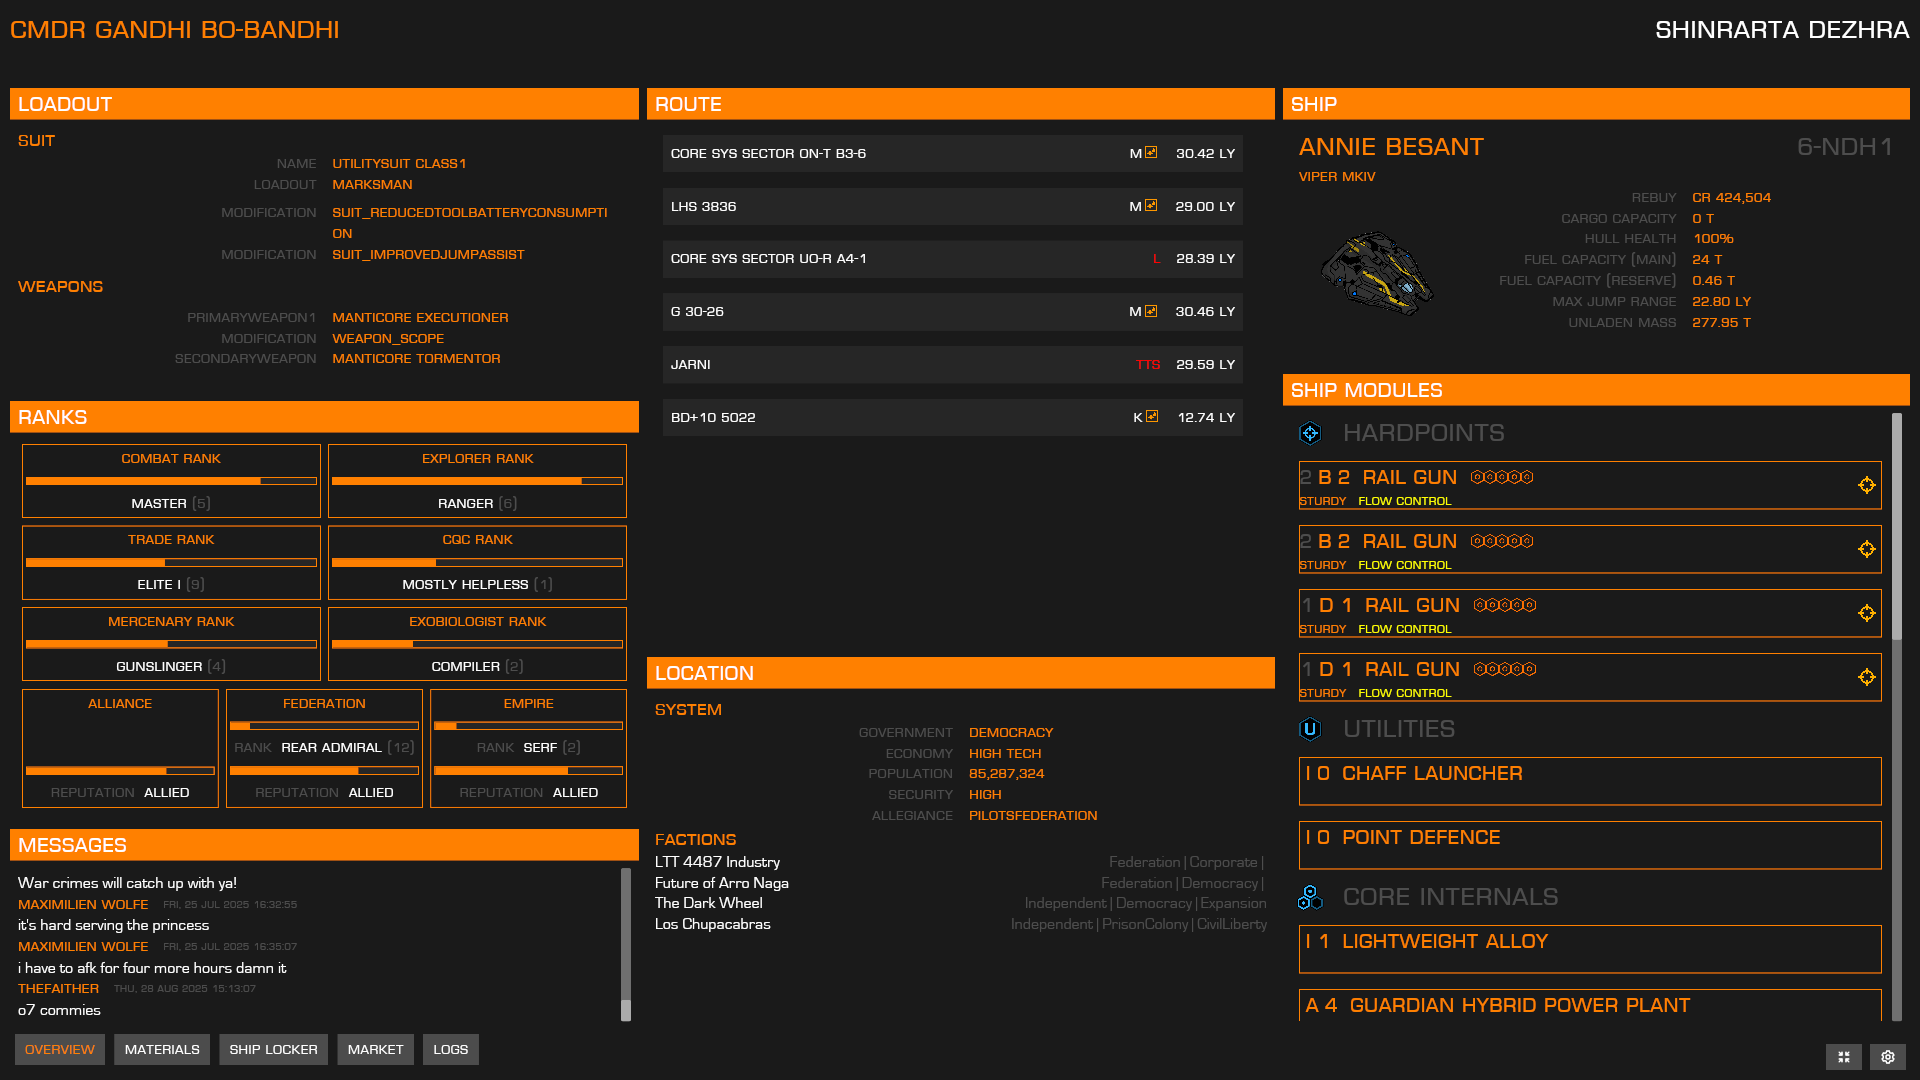
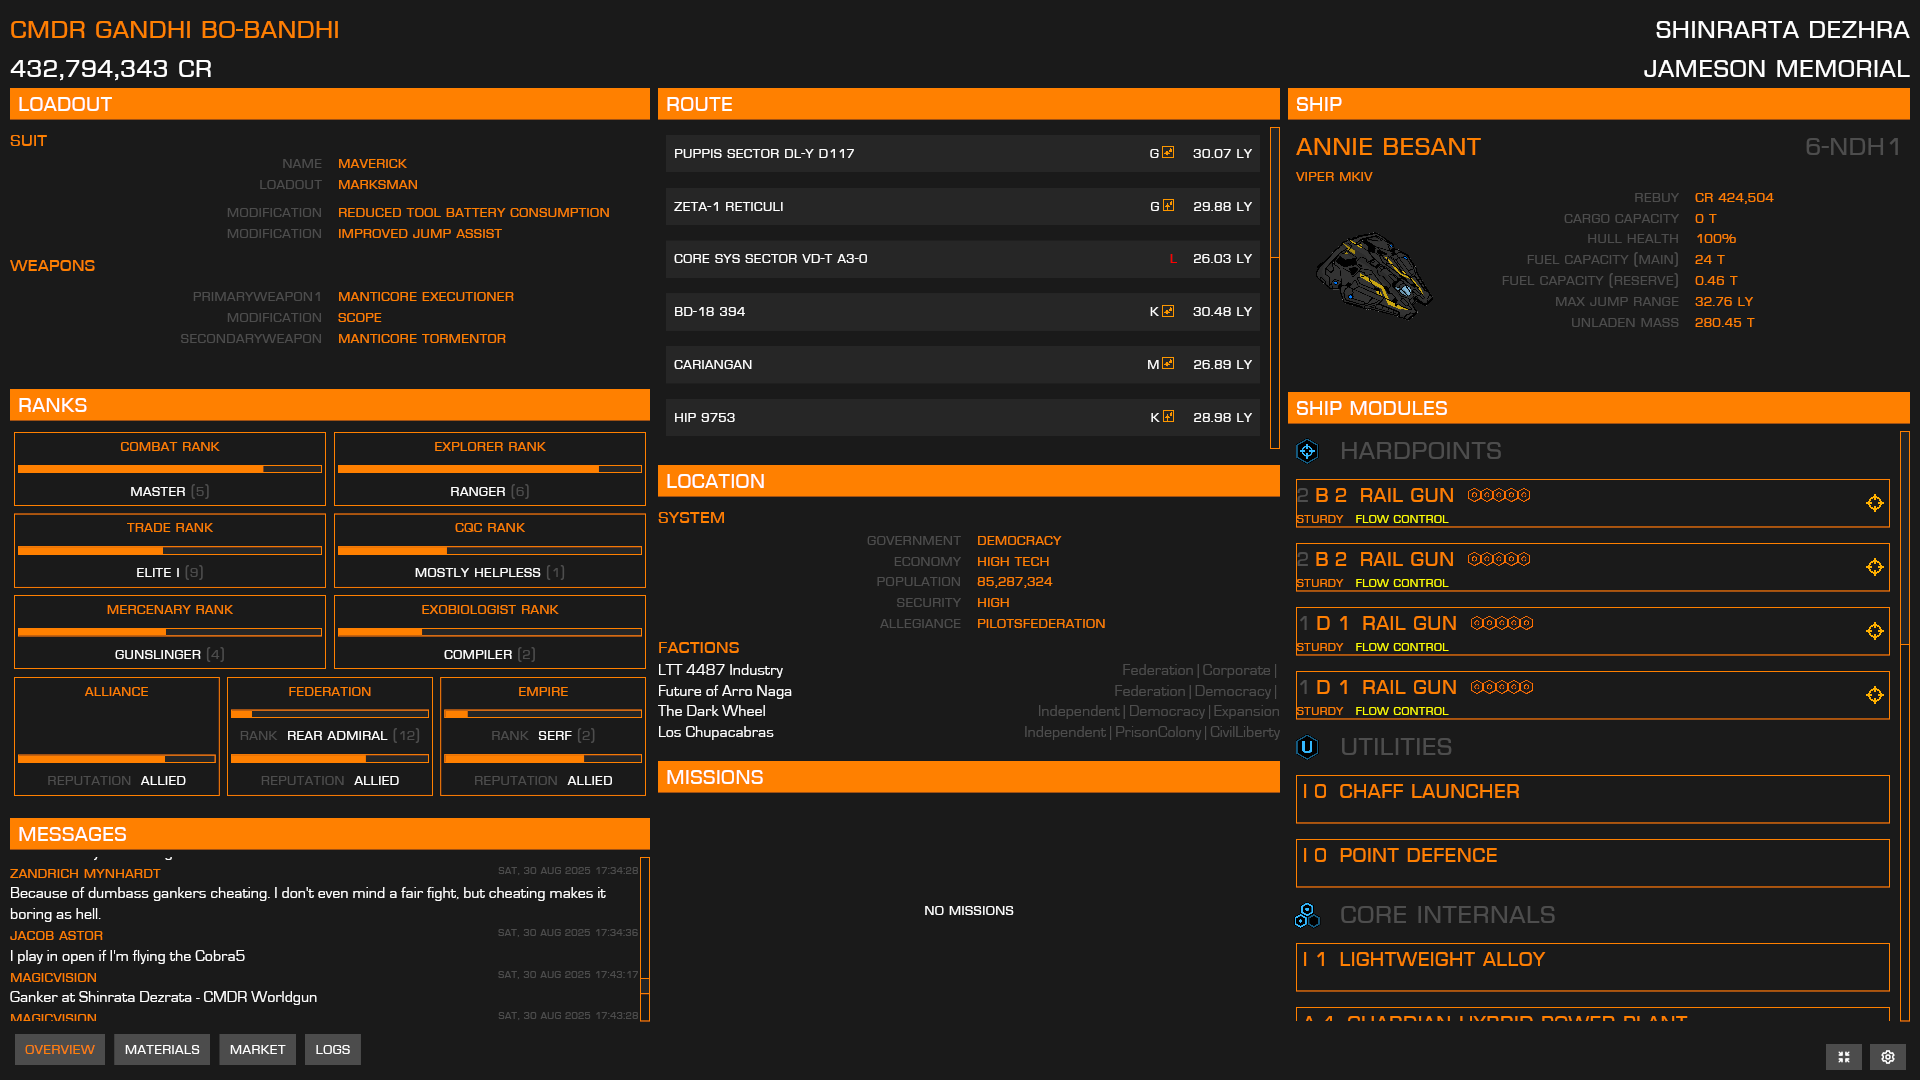
Fix loadout mod names.

diff --git a/src/lookup.rs b/src/lookup.rs
@@ -1,10 +1,33 @@
-use phf::{phf_map, Map};
 use crate::image::ship::*;
+use phf::{Map, phf_map};
 
 pub mod fdev_ids;
 
 // Include compile-time generated INARA maps
 include!(concat!(env!("OUT_DIR"), "/inara_gen.rs"));
+
+pub struct SuitClass {
+    pub name: &'static str,
+    pub rank: u8,
+}
+
+pub static SUIT_CLASS_NAMES: Map<&'static str, SuitClass> = phf_map! {
+    "explorationsuit_class1" => SuitClass {name: "Artemis", rank: 1},
+    "explorationsuit_class2" => SuitClass {name: "Artemis", rank: 2},
+    "explorationsuit_class3" => SuitClass {name: "Artemis", rank: 3},
+    "explorationsuit_class4" => SuitClass {name: "Artemis", rank: 4},
+    "explorationsuit_class5" => SuitClass {name: "Artemis", rank: 5},
+    "tacticalsuit_class1" => SuitClass {name: "Dominator", rank: 1},
+    "tacticalsuit_class2" => SuitClass {name: "Dominator", rank: 2},
+    "tacticalsuit_class3" => SuitClass {name: "Dominator", rank: 3},
+    "tacticalsuit_class4" => SuitClass {name: "Dominator", rank: 4},
+    "tacticalsuit_class5" => SuitClass {name: "Dominator", rank: 5},
+    "utilitysuit_class1" => SuitClass {name: "Maverick", rank: 1},
+    "utilitysuit_class2" => SuitClass {name: "Maverick", rank: 2},
+    "utilitysuit_class3" => SuitClass {name: "Maverick", rank: 3},
+    "utilitysuit_class4" => SuitClass {name: "Maverick", rank: 4},
+    "utilitysuit_class5" => SuitClass {name: "Maverick", rank: 5}
+};
 
 // Hard-coded rank maps for Exobiologist and Mercenary (Odyssey). No idea why they're not included in fdev-ids.
 pub static EXOBIOLOGIST_RANKS: Map<&'static str, &'static str> = phf_map! {
@@ -34,16 +57,16 @@ pub static MERCENARY_RANKS: Map<&'static str, &'static str> = phf_map! {
 pub static CATEGORY_NAMES: Map<&'static str, &'static str> = phf_map! {
     "1" => "Light Metals and Metalloids",
     "2" => "Reactive Nonmetals and Transition Metals",
-    "3" => "Chalcogens and Transition Metals", 
+    "3" => "Chalcogens and Transition Metals",
     "4" => "Base Metals and Post-Transition Metals",
     "5" => "Coinage and Industrial Metals",
     "6" => "Heavy Metals and Metalloids",
     "7" => "Diverse Utility Elements"
 };
-pub static ENGINEERING_RECIPES: Map<&'static str, &'static str> = phf_map! {
+pub static SUIT_MODULE_NAMES: Map<&'static str, &'static str> = phf_map! {
     "suit_reducedtoolbatteryconsumption" => "Reduced Tool Battery Consumption",
     "suit_increasedbatterycapacity" => "Improved Battery Capacity",
-    "suit_increasedshieldregen" => "Faster Shield Regen", 
+    "suit_increasedshieldregen" => "Faster Shield Regen",
     "suit_improvedarmourrating" => "Damage Resistance",
     "suit_increasedo2capacity" => "Increased Air Reserves",
     "suit_nightvision" => "Night Vision",
@@ -64,7 +87,7 @@ pub static ENGINEERING_RECIPES: Map<&'static str, &'static str> = phf_map! {
     "weapon_scope" => "Scope",
     "weapon_backpackreloading" => "Stowed reloading",
     "weapon_accuracy_kinematic" => "Higher Accuracy: Kinematic Armaments",
-    "weapon_range_kinematic" => "Greater Range: Kinematic Armaments", 
+    "weapon_range_kinematic" => "Greater Range: Kinematic Armaments",
     "weapon_headshotdamage_kinematic" => "Headshot damage: Kinematic Armaments",
     "weapon_accuracy_manticore" => "Higher Accuracy: Kinematic Armaments",
     "weapon_range_manticore" => "Greater Range: Kinematic Armaments",
@@ -73,6 +96,7 @@ pub static ENGINEERING_RECIPES: Map<&'static str, &'static str> = phf_map! {
     "weapon_range_takada" => "Greater Range: Kinematic Armaments",
     "weapon_headshotdamage_takada" => "Headshot damage: Kinematic Armaments"
 };
+
 pub fn locations_for_material(name: &str) -> Vec<&str> {
     get_generated_items(&MATERIAL_LOCATIONS_MAP, MATERIAL_LOCATION_LISTS, name)
 }
@@ -156,7 +180,11 @@ pub fn ship_image_bytes(name: &str) -> Option<&'static [u8]> {
     SHIP_IMAGES.get(name).copied()
 }
 
-fn get_generated_items<'a>(map: &Map<&'static str, usize>, lists: &[&[&'a str]], name: &str) -> Vec<&'a str> {
+fn get_generated_items<'a>(
+    map: &Map<&'static str, usize>,
+    lists: &[&[&'a str]],
+    name: &str,
+) -> Vec<&'a str> {
     let key = name.to_lowercase();
     if let Some(&idx) = map.get(&key) {
         if let Some(slice) = lists.get(idx) {
@@ -165,4 +193,3 @@ fn get_generated_items<'a>(map: &Map<&'static str, usize>, lists: &[&[&'a str]],
     }
     Vec::new()
 }
-

diff --git a/src/state/suit.rs b/src/state/suit.rs
@@ -1,40 +1,23 @@
+use log::error;
 use crate::journal::event;
+use crate::lookup;
+use crate::lookup::SuitClass;
 
 #[derive(Default)]
 pub struct SuitLoadout {
-
-    pub suit_name: Box<str>,
-    pub suit_mods: Vec<Box<str>>,
+    pub suit_name: &'static str,
+    pub class: u8,
+    pub suit_mods: Vec<&'static str>,
     pub loadout_name: Box<str>,
     pub modules: Vec<SuitModule>,
 }
 
 #[derive(Default)]
 pub struct SuitModule {
-
     pub slot_name: Box<str>,
     pub module_name: Box<str>,
     pub class: u64,
-    pub weapon_mods: Vec<Box<str>>,
-}
-
-fn localized_name(name: Box<str>) -> Box<str> {
-    if !name.starts_with('$') {
-        return name;
-    }
-    name.trim_end_matches("_Name;")
-        .trim_start_matches('$')
-        .split('_')
-        .map(|s| {
-            let mut chars = s.chars();
-            match chars.next() {
-                Some(c) => c.to_uppercase().chain(chars.flat_map(|c| c.to_lowercase())).collect(),
-                None => String::new(),
-            }
-        })
-        .collect::<Vec<_>>()
-        .join(" ")
-        .into()
+    pub weapon_mods: Vec<&'static str>,
 }
 
 impl From<event::SuitLoadoutModule> for SuitModule {
@@ -43,33 +26,38 @@ impl From<event::SuitLoadoutModule> for SuitModule {
             slot_name: value.slot_name,
             module_name: value.module_name_localised.unwrap_or(value.module_name),
             class: value.class,
-            weapon_mods: value.weapon_mods,
+            weapon_mods: value.weapon_mods.into_iter().map(|m| {
+                *lookup::SUIT_MODULE_NAMES.get(m.as_ref())
+                    .unwrap_or_else(|| {
+                        error!("Error: Missing suit module name: {}", m);
+                        &"Unknown"
+                    })
+            }).collect(),
         }
     }
 }
 
 impl From<event::SuitLoadout> for SuitLoadout {
     fn from(value: event::SuitLoadout) -> Self {
+
+        let suit_class = lookup::SUIT_CLASS_NAMES.get(&value.suit_name)
+            .unwrap_or_else(|| {
+                error!("Error: Missing suit module name: {}", value.suit_name);
+                &SuitClass { name: "Unknown", rank: 0 }
+            });
+
         SuitLoadout {
-            suit_name: localized_name(value.suit_name_localised.unwrap_or(value.suit_name)),
-            suit_mods: value.suit_mods.into_iter().map(|m| m.into()).collect(),
+            suit_name: suit_class.name,
+            class: suit_class.rank,
+            suit_mods: value.suit_mods.into_iter().map(|m| {
+                *lookup::SUIT_MODULE_NAMES.get(m.as_ref())
+                    .unwrap_or_else(|| {
+                        error!("Error: Missing suit module name: {}", m);
+                        &"Unknown"
+                    })
+            }).collect(),
             loadout_name: value.loadout_name,
             modules: value.modules.into_iter().map(|m| m.into()).collect(),
         }
-    }
-}
-
-#[cfg(test)]
-mod tests {
-    use super::*;
-
-    #[test]
-    fn test_localized_name() {
-        assert_eq!(localized_name("$python_PILOT_Name;".into()), "Python Pilot".into());
-        assert_eq!(localized_name("$SIDEWINDER_Name;".into()), "Sidewinder".into());
-        assert_eq!(localized_name("$BIG_COOL_SHIP_Name;".into()), "Big Cool Ship".into());
-        assert_eq!(localized_name("Regular Name".into()), "Regular Name".into());
-        assert_eq!(localized_name("$".into()), "".into());
-        assert_eq!(localized_name("$SINGLE".into()), "Single".into());
     }
 }

diff --git a/src/gui/pane/messages.rs b/src/gui/pane/messages.rs
@@ -2,8 +2,8 @@ use iced::{Element, Fill};
 use iced::widget::{column, row, scrollable, text, Column};
 use crate::font::EUROSTILE;
 use crate::gui::Message;
-use crate::state::State;
-use crate::theme::{style, GRAY, ORANGE, WHITE};
+use crate::state::{Channel, State};
+use crate::theme::{style, GRAY, ORANGE, WHITE, YELLOW};
 
 pub fn messages(state: &State) -> Column<'_, Message> {
     iced::widget::column![
@@ -13,9 +13,17 @@ pub fn messages(state: &State) -> Column<'_, Message> {
                 .iter()
                 .filter(|item| !item.from.is_empty())
                 .map(|item| {
+                    let name_color = match item.channel {
+                        Channel::Local => ORANGE,
+                        Channel::StarSystem => ORANGE,
+                        Channel::Squadron => YELLOW,
+                        Channel::SquadLeaders => YELLOW,
+                        Channel::Npc => WHITE
+                    };
+
                     column![
                         row![
-                            column![text(item.from.as_ref()).size(16).color(ORANGE)],
+                            column![text(item.from.as_ref()).size(16).color(name_color)],
                             column![].width(Fill),
                             column![text(item.time_display.as_ref()).size(12).color(GRAY)].padding([0, 8]),
                         ],

diff --git a/src/gui/pane/loadout.rs b/src/gui/pane/loadout.rs
@@ -6,11 +6,11 @@ use crate::state::State;
 pub fn loadout(state: &State) -> Column<'_, Message> {
     iced::widget::column![
         sub_header("Suit"),
-        details("Name", state.suit_loadout.suit_name.as_ref()),
+        details("Name", state.suit_loadout.suit_name),
         details("Loadout", state.suit_loadout.loadout_name.as_ref()),
         column(
             state.suit_loadout.suit_mods.iter().map(|mod_name| {
-                details("Modification", mod_name.as_ref()).into()
+                details("Modification", *mod_name).into()
             })
         ).padding(8),
         sub_header("Weapons"),
@@ -20,7 +20,7 @@ pub fn loadout(state: &State) -> Column<'_, Message> {
                     details(&module.slot_name, module.module_name.as_ref()),
                     column(
                         module.weapon_mods.iter().map(|mod_name| {
-                            details("Modification", mod_name.as_ref()).into()
+                            details("Modification", *mod_name).into()
                         })
                     ).padding([0, 16])
                 ].into()

diff --git a/src/state/gui.rs b/src/state/gui.rs
@@ -1,7 +1,17 @@
 use iced::widget::pane_grid;
 use crate::gui::pane;
 
+#[derive(Default)]
+pub struct Layout {
+    pub overview_panes: Option<pane_grid::State<pane::Type>>,
+    pub fullscreen: bool,
+    pub enabled_panes: Option<Vec<pane::Type>>,
+    pub custom_screens: Vec<crate::config::CustomScreen>,
+    pub selected_custom_screen: usize,
+}
+
 impl Layout {
+
     pub fn sync_selected_custom_screen_from_live(&mut self) {
         // Ensure there is at least one custom screen entry
         if self.custom_screens.is_empty() { return; }
@@ -17,18 +27,7 @@ impl Layout {
             sel.visible = Some(visible);
         }
     }
-}
-
-#[derive(Default)]
-pub struct Layout {
-    pub overview_panes: Option<pane_grid::State<pane::Type>>,
-    pub fullscreen: bool,
-    pub enabled_panes: Option<Vec<pane::Type>>,
-    pub custom_screens: Vec<crate::config::CustomScreen>,
-    pub selected_custom_screen: usize,
-}
-
-impl Layout {
+    
     pub fn from_settings() -> Layout {
         let mut layout = Layout::default();
 

diff --git a/src/state.rs b/src/state.rs
@@ -689,7 +689,7 @@ impl State {
                             self.latest_message_timestamp_formatted = format::prettify_date(&e.timestamp)
                         }
 
-                        if e.channel.as_ref() != "npc" && e.channel.as_ref() != "starsystem" {
+                        if e.channel.as_ref() != "npc" {
                             self.messages.push(e.into());
                         }
                     }
